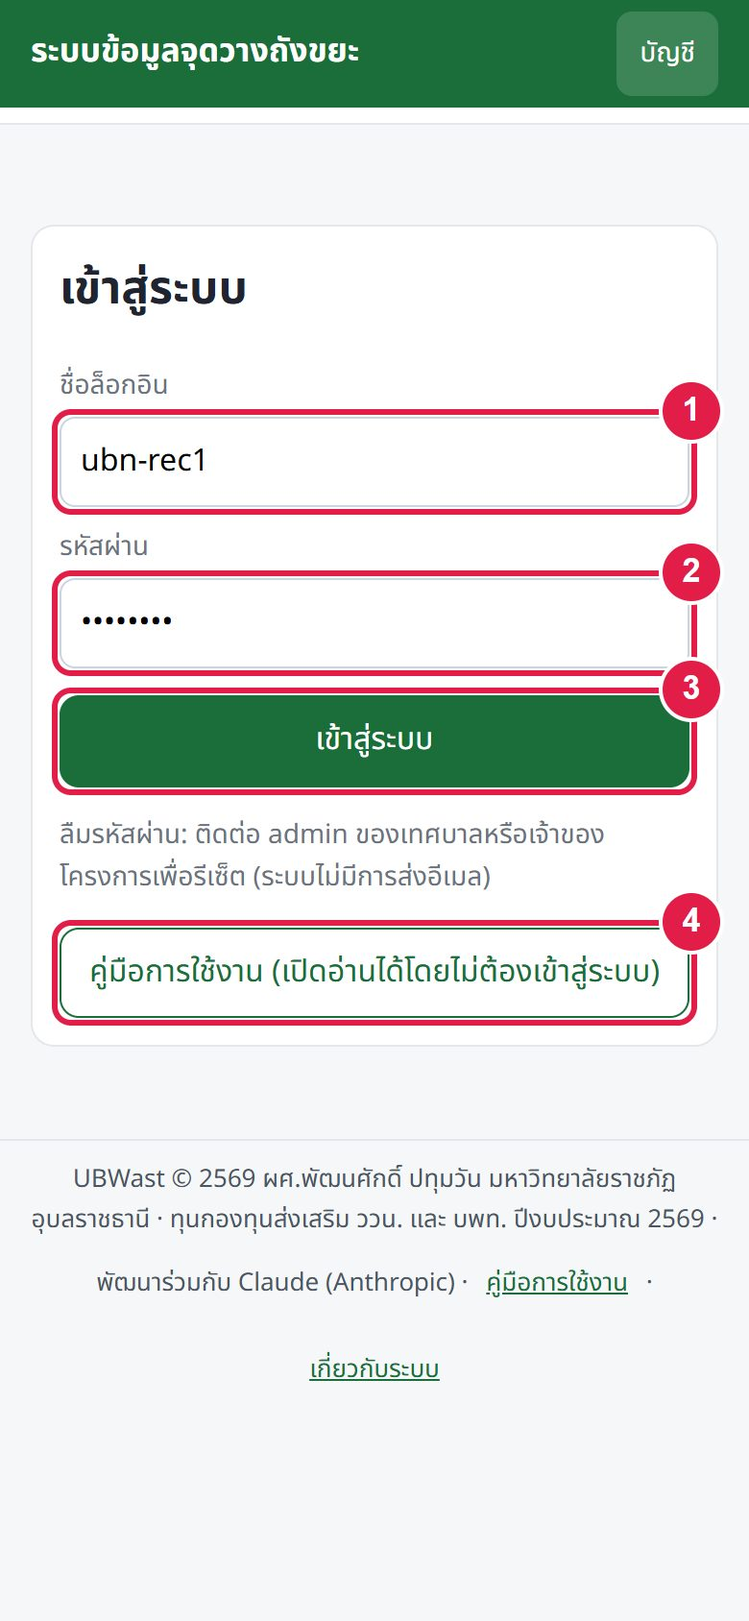
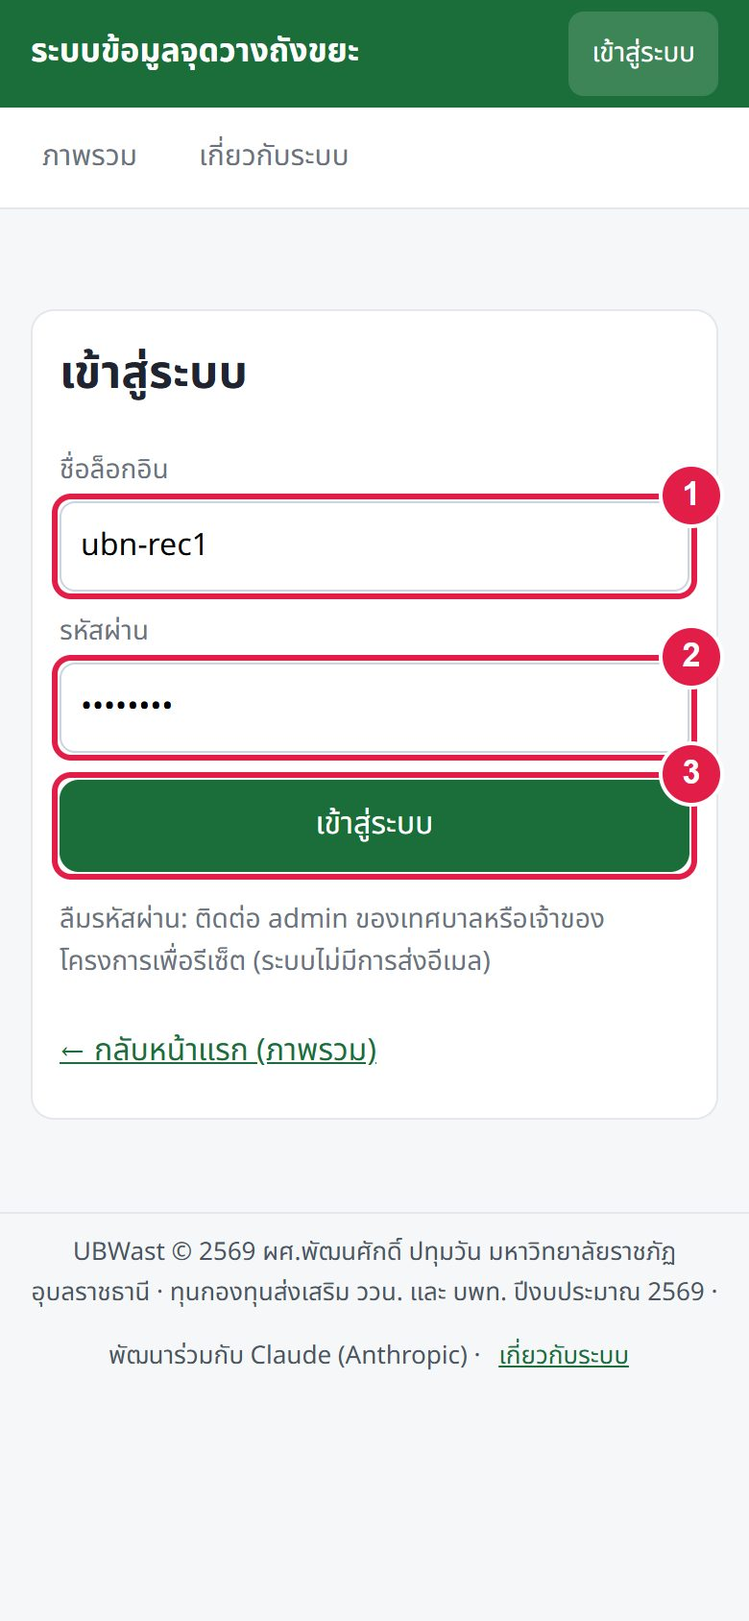
DEC-114: public home page (overview dashboard) without login
- Logged-out visitors see only: overview dashboard, about page, and a login button
- Overview data comes from public_dashboard() (sql/018): summary only, no photos,
  recorder names, vehicles, fuel or costs; per-municipality public switch
- Help and user guides require login (installer guide #guide/photo stays public
  because it is sent to municipal Google admins who have no account)
- Login moved to #login; session expiry returns to the login page

diff --git a/index.html b/index.html
@@ -162,7 +162,7 @@ const CONFIG = {
   <h1 id="title">ระบบข้อมูลจุดวางถังขยะ</h1>
   <span id="who" class="muted" style="color:#dbeafe;font-size:13px"></span>
   <button id="btnQueue" class="hidden" onclick="go('#queue')">รอส่ง <b id="queueCount">0</b></button>
-  <button onclick="go('#me')">บัญชี</button>
+  <button id="btnAcct" onclick="go(S.me ? '#me' : '#login')">เข้าสู่ระบบ</button>
 </header>
 <nav class="tabs" id="tabs"></nav>
 <main id="view"></main>
@@ -251,7 +251,7 @@ function fail(e, ctx) {
   toastErr(f.title, f.hint, f.raw && f.raw !== f.title ? f.raw : '');
   if (f.kind === 'session' && S.me && api.name === 'supabase') sessionLost();
 }
-async function sessionLost() { try { await api.logout(); } catch (_) {} S.me = null; S.cache = {}; S._loginNote = 'หมดเวลาการใช้งาน กรุณาเข้าสู่ระบบใหม่ · รายการที่ยังไม่ได้ส่งเก็บไว้ในเมนู "รอส่ง" ไม่หาย'; go('#'); render(); }
+async function sessionLost() { try { await api.logout(); } catch (_) {} S.me = null; S.cache = {}; S._loginNote = 'หมดเวลาการใช้งาน กรุณาเข้าสู่ระบบใหม่ · รายการที่ยังไม่ได้ส่งเก็บไว้ในเมนู "รอส่ง" ไม่หาย'; go('#login'); render(); }
 // ตรวจช่องบังคับ: ทำกรอบแดง เลื่อนไปที่ช่อง และบอกชื่อช่องที่ขาด · คืน false เพื่อให้เรียกแบบ return needField(...)
 function needField(sel, msg) {
   document.querySelectorAll('.invalid').forEach(x => x.classList.remove('invalid'));
@@ -298,6 +298,7 @@ const SupaBackend = () => {
     },
     async changePassword(pw) { unwrap(await sb.auth.updateUser({ password: pw })); },
     async list(name, o) { return unwrap(await applyOpts(sb.from(name).select(o?.select || '*'), o)); },
+    async rpc(fn, args) { return unwrap(await sb.rpc(fn, args || {})); },   // DEC-114 ฟังก์ชันฐานข้อมูล (public_dashboard เรียกได้โดยไม่ต้องล็อกอิน)
     async insert(table, row) { return unwrap(await sb.from(table).insert(row).select().single()); },
     async insertMany(table, rows) { if (!rows.length) return []; return unwrap(await sb.from(table).insert(rows).select()); },
     async update(table, id, patch, pk = 'id') { return unwrap(await sb.from(table).update(patch).eq(pk, id).select().single()); },
@@ -412,6 +413,16 @@ const DemoBackend = () => {
     async login(username, password) { const u = D.app_user.find(x => x.username === username.trim().toLowerCase()); if (!u || password !== 'demo') throw new Error('ชื่อล็อกอินหรือรหัสผ่านไม่ถูกต้อง (สาธิต: รหัสผ่านคือ demo)'); me = u; return { ...u }; },
     async logout() { me = null; },
     async me() { return me ? { ...me } : null; },
+    async rpc(fn) {   // เลียนแบบ public_dashboard() ของ sql/018: เฉพาะข้อมูลสรุป ไม่ต้องล็อกอิน
+      if (fn !== 'public_dashboard') throw new Error('สาธิต: ไม่รองรับ ' + fn);
+      const mu = D.municipality.filter(m => m.status === 'active' && m.public_dashboard !== false), ids = new Set(mu.map(m => m.id));
+      const places = views.v_place().filter(p => p.status === 'active' && ids.has(p.municipality_id)).map(p => ({ id: p.id, municipality_id: p.municipality_id, municipality_code: p.municipality_code, place_code: p.place_code, name: p.name, road_id: p.road_id, road_name: p.road_name, lat: p.lat, lng: p.lng, total_bins: p.total_bins, total_liters: p.total_liters, tier_label: p.tier_label, tier_color: p.tier_color }));
+      const pid = new Set(places.map(p => p.id));
+      return { munis: mu.map(m => ({ id: m.id, code: m.code, name: m.name, map_bounds: m.map_bounds || null })), places,
+        bins: views.v_bin().filter(b => b.status === 'active' && b.condition === 'ปกติ' && pid.has(b.place_id)).map(b => ({ place_id: b.place_id, municipality_id: b.municipality_id, bin_type_name: b.bin_type_name, amount: b.amount, liters: b.liters, condition: b.condition })),
+        roads: views.v_road_summary().filter(r => +r.places > 0 && ids.has(r.municipality_id)).map(r => ({ municipality_id: r.municipality_id, municipality_code: r.municipality_code, road_id: r.road_id, road_name: r.road_name, places: r.places, total_bins: r.total_bins, total_liters: r.total_liters })),
+        msum: views.v_municipality_summary().filter(x => ids.has(x.municipality_id)), tiers: D.capacity_tier.slice(), settings: D.app_setting.filter(a => ['system_name', 'kg_per_liter'].includes(a.key)) };
+    },
     async changePassword() { },
     async list(name, o) { const rows = views[name] ? views[name]() : D[name]; return filt(scope(name, rows), o); },
     async insert(table, row) {
@@ -498,7 +509,7 @@ async function loadMasters(force) {
   if (!S.scopeMuni) S.scopeMuni = S.me.municipality_id || (munis[0] && munis[0].id) || null;
 }
 const scopeEq = () => (S.scopeMuni ? { municipality_id: S.scopeMuni } : {});
-const muniOf = id => S.munis.find(m => m.id === id) || {};
+const muniOf = id => S.munis.find(m => m.id === id) || (S.pub && S.pub.munis.find(m => m.id === id)) || {};
 const isSuper = () => S.me && S.me.role === 'super_admin';
 const isAdmin = () => S.me && (S.me.role === 'admin' || isSuper());
 const setting = k => (S.cache.app_setting.find(s => s.key === k) || {}).value || '';
@@ -518,6 +529,7 @@ const TABS = () => [
   ['#help', 'ช่วยเหลือ']
 ];
 function renderTabs() {
+  if (!S.me) { const h = location.hash; $('#tabs').innerHTML = [['#', 'ภาพรวม', !h.startsWith('#about') && h !== '#login' && !h.startsWith('#guide')], ['#about', 'เกี่ยวกับระบบ', h.startsWith('#about')]].map(([href, l, a]) => `<a href="${href}" class="${a ? 'active' : ''}">${l}</a>`).join(''); return; }
   $('#tabs').innerHTML = S.me ? TABS().map(([h, l]) => `<a href="${h}" class="${location.hash.startsWith(h) ? 'active' : ''}">${l}</a>`).join('') : '';
 }
 window.addEventListener('hashchange', render);
@@ -527,9 +539,14 @@ async function render() {
   const view = $('#view');
   try {
     if (!S.me) { S.me = await api.me(); }
+    renderCredit(); const ab = $('#btnAcct'); if (ab) ab.textContent = S.me ? 'บัญชี' : 'เข้าสู่ระบบ';
     if (location.hash.startsWith('#about')) { renderTabs(); if (!S.me) $('#who').textContent = ''; return pageAbout(view); }   // DEC-103 เปิดได้โดยไม่ต้องล็อกอิน
-    if (location.hash === '#guide' || location.hash.startsWith('#guide/')) { renderTabs(); if (!S.me) $('#who').textContent = ''; return pageGuide(view); }   // คู่มือ เปิดได้โดยไม่ต้องล็อกอิน (DEC-095 · DEC-105)
-    if (!S.me) { renderTabs(); $('#who').textContent = ''; return pageLogin(view); }
+    if (location.hash === '#guide' || location.hash.startsWith('#guide/')) {   // DEC-114 คู่มือเปิดได้เมื่อเข้าสู่ระบบ · ยกเว้นคู่มือติดตั้งตัวรับรูป (#guide/photo) ที่ส่งลิงก์ให้ผู้ดูแลบัญชี Google ของเทศบาลซึ่งไม่มีบัญชีระบบ
+      if (!S.me && location.hash !== '#guide/photo') { S._loginNote = 'คู่มือการใช้งานสำหรับเจ้าหน้าที่ กรุณาเข้าสู่ระบบก่อน'; history.replaceState(null, '', '#login'); renderTabs(); $('#who').textContent = ''; return pageLogin(view); }
+      renderTabs(); if (!S.me) $('#who').textContent = ''; return pageGuide(view);
+    }
+    if (!S.me) { renderTabs(); $('#who').textContent = ''; return location.hash === '#login' ? pageLogin(view) : pagePublic(view); }   // DEC-114 หน้าแรกสาธารณะ
+    if (location.hash === '#login') history.replaceState(null, '', '#map');
     await loadMasters();
     $('#who').textContent = `${S.me.display_name} · ${roleLabel(S.me.role)}${S.me.municipality_id ? ' · ' + (muniOf(S.me.municipality_id).code || '') : ''}`;
     Queue.refreshBadge();
@@ -565,7 +582,7 @@ function pageLogin(view) {
     <label>รหัสผ่าน</label><input id="p" type="password" autocomplete="current-password">
     <div style="margin-top:14px"><button id="btnLogin" style="width:100%">เข้าสู่ระบบ</button></div>
     <p class="muted">ลืมรหัสผ่าน: ติดต่อ admin ของเทศบาลหรือเจ้าของโครงการเพื่อรีเซ็ต (ระบบไม่มีการส่งอีเมล)</p>
-    <a id="guideLink" class="btn secondary" style="display:block;text-align:center;text-decoration:none" href="#guide">คู่มือการใช้งาน (เปิดอ่านได้โดยไม่ต้องเข้าสู่ระบบ)</a>
+    <a href="#" style="display:inline-block;padding:8px 0">← กลับหน้าแรก (ภาพรวม)</a>
   </div>`;
   const doLogin = async () => {
     const b = $('#btnLogin'); b.disabled = true;
@@ -1029,9 +1046,26 @@ const cardTitle = (text, key) => `<div class="cardhead"><h4>${text}</h4>${key ? 
 function showInfo(key) { const i = (S._info || {})[key]; if (!i) return toast('ยังไม่มีคำอธิบาย', true); openModal(`<h3 style="margin-top:0">${esc(i.title)}</h3><h4 style="margin-bottom:4px">กราฟนี้แสดงอะไร</h4><div>${esc(i.what)}</div><h4 style="margin-bottom:4px">อ่านอย่างไร</h4><div>${esc(i.how)}</div><h4 style="margin-bottom:4px">แปลผลจากข้อมูลตอนนี้ (คำนวณอัตโนมัติ)</h4><div class="banner info">${esc(i.interp)}</div><button onclick="closeModal()">ปิด</button>`); }
 const tiersSorted = () => S.cache.capacity_tier.slice().sort((a, b) => a.sort_order - b.sort_order);
 const tierOf = p => tiersSorted().find(t => t.label === p.tier_label) || tiersSorted()[0];
-const scopeName = () => (S.scopeMuni ? `${muniOf(S.scopeMuni).code || ''} · ${muniOf(S.scopeMuni).name || ''}` : 'ทุกเทศบาล');
+const scopeName = () => !S.me ? (S.pubMuni ? (muniOf(S.pubMuni).name || '') : 'ทุกเทศบาลที่เข้าร่วม') : (S.scopeMuni ? `${muniOf(S.scopeMuni).code || ''} · ${muniOf(S.scopeMuni).name || ''}` : 'ทุกเทศบาล');
 
+// DEC-114 หน้าแรกสาธารณะ: ภาพรวมจากฟังก์ชัน public_dashboard() (sql/018) ซึ่งคืนเฉพาะข้อมูลสรุป ไม่มีรูป ชื่อผู้บันทึก รถ น้ำมัน ค่าใช้จ่าย
+async function loadPublic(force) {
+  if (S.pub && !force && Date.now() - S.pub._at < 300000) return S.pub;   // จำไว้ 5 นาที
+  const d = await api.rpc('public_dashboard'); d._at = Date.now(); S.pub = d;
+  S.cache.capacity_tier = d.tiers || []; S.cache.app_setting = d.settings || [];
+  const sn = (d.settings || []).find(x => x.key === 'system_name'); if (sn && sn.value) { $('#title').textContent = sn.value; document.title = sn.value; }
+  if ((d.munis || []).length === 1) S.pubMuni = d.munis[0].id;
+  return d;
+}
+async function pagePublic(view) {
+  try { await loadPublic(); }
+  catch (e) { const f = friendlyError(e, 'โหลดข้อมูลภาพรวมไม่สำเร็จ'); console.error(e); return view.innerHTML = `<div class="card"><b>${esc(f.title)}</b><div class="muted" style="margin-top:4px">${esc(f.hint || 'ลองใหม่อีกครั้งภายหลัง')}</div><div class="row" style="margin-top:10px"><button onclick="S.pub=null;render()">ลองใหม่</button><a class="btn secondary" style="text-decoration:none" href="#login">เข้าสู่ระบบ (เจ้าหน้าที่)</a></div></div>`; }
+  return pageDashOverview(view);
+}
+const pubSelector = () => { const ms = (S.pub && S.pub.munis) || [];
+  return `<div class="card row" style="justify-content:space-between"><div class="row" style="gap:8px"><label style="margin:0" for="pubMuni">เทศบาล</label><select id="pubMuni" style="max-width:340px" onchange="S.pubMuni=this.value||null;render()">${ms.length > 1 ? '<option value="">ทุกเทศบาลที่เข้าร่วม</option>' : ''}${ms.map(m => `<option value="${m.id}" ${m.id === S.pubMuni ? 'selected' : ''}>${esc(m.name)}</option>`).join('')}</select></div><span class="muted">ข้อมูลสาธารณะ ไม่ต้องเข้าสู่ระบบ · เจ้าหน้าที่ <a href="#login">เข้าสู่ระบบ</a></span></div>`; };
 async function loadDashData() {
+  if (!S.me) { const d = S.pub || { places: [], bins: [], roads: [], msum: [] }, f = r => !S.pubMuni || r.municipality_id === S.pubMuni; const places = d.places.filter(f), ids = new Set(places.map(p => p.id)); return { places, bins: d.bins.filter(b => ids.has(b.place_id)), roads: d.roads.filter(f), msum: d.msum.filter(f) }; }
   const [places, bins, roads, msum] = await Promise.all([
     api.list('v_place', { eq: { status: 'active', ...scopeEq() } }),
     api.list('v_bin', { eq: { status: 'active', ...scopeEq() } }),
@@ -1106,7 +1140,7 @@ async function pageDashOverview(view) {
     roads: { title: '10 ถนนความจุสูงสุด', what: 'ความจุรวม (ลิตร) ของทุกจุดบนถนน เรียงจากมากไปน้อย · ตัวเลขท้ายแท่ง = ลิตร และจำนวนจุด', how: 'ถนนที่ลิตรมากแต่จุดน้อย = ถังใหญ่ (คอนเทนเนอร์) · ถนนที่จุดมากแต่ลิตรน้อย = ถังเล็กจำนวนมาก · จำนวนจุดสะท้อนความครอบคลุมการสำรวจ ไม่ใช่สภาพจริงทั้งหมด · กดชื่อถนนเพื่อเจาะดูในหน้าวิเคราะห์', interp: roadsWith.length ? `${roadsWith.length > 10 ? `10 ถนนแรกถือ ${fmt1(pct(top10L, totL))}% ของความจุทั้งหมด จาก ${fmt(roadsWith.length)} ถนนที่มีจุด` : `มีถนนที่มีจุด ${fmt(roadsWith.length)} สาย (แสดงครบทุกสาย)`} · อันดับ 1 "${roadsWith[0].road_name}" ${fmt(roadsWith[0].total_liters)} ล. จาก ${fmt(roadsWith[0].places)} จุด (เฉลี่ย ${fmt(Math.round(roadsWith[0].total_liters / roadsWith[0].places))} ล./จุด)` : 'ยังไม่มีข้อมูล' },
     types: { title: 'ความจุตามประเภทถัง', what: 'ความจุรวม (ลิตร) แยกตามประเภทถัง = จำนวนใบ × ลิตรต่อใบ · แท่งม่วง = ประเภทที่ถือความจุมากที่สุด', how: 'เทียบ "ล." กับ "ใบ" ท้ายแท่ง: ประเภทที่ใบน้อยแต่ลิตรมากคือถังใหญ่ · ป้ายมุมขวาบนบอกจำนวนจุดที่ยังไม่มีข้อมูลถัง (ไม่ทราบ ≠ ศูนย์)', interp: topType ? `"${topType.name}" ${fmt(topType.bins)} ใบ (${fmt1(pct(topType.bins, totB))}% ของใบ) ถือความจุ ${fmt1(pct(topType.liters, totL))}%${types[1] ? ` · รองลงมา "${types[1].name}" ${fmt1(pct(types[1].liters, totL))}%` : ''}${noBins ? ` · มี ${fmt(noBins)} จุดที่ยังไม่มีข้อมูลถัง ควรสำรวจเพิ่ม` : ''}` : 'ยังไม่มีข้อมูล' }
   };
-  view.innerHTML = `${scopeSelector()}${dashTabs('')}
+  view.innerHTML = `${S.me ? scopeSelector() + dashTabs('') : pubSelector()}
     <div class="card" style="padding:12px 14px"><div style="font-size:20px;font-weight:700;color:${DASH.navy}">${esc(setting('system_name') || 'ระบบข้อมูลจุดวางถังขยะ')} — ภาพรวม</div>
       <div class="muted">${esc(scopeName())} · ข้อมูลล่าสุด ${thDate(updated)} · ${places.length ? '' : 'ยังไม่มีข้อมูลจุดในขอบเขตนี้'}</div></div>
     <div class="kpis">${card(fmt(places.length), 'จุด')}${card(fmt(totB), 'ถัง (ใบ)')}${card(fmt(totL), 'ลิตร', !isNaN(kg) ? `≈ ${fmt(Math.round(totL * kg))} กก.` : '')}${card(fmt(new Set(places.map(p => p.road_id)).size), 'ถนนที่มีจุด')}${card(fmt(places.length ? Math.round(totL / places.length) : 0), 'เฉลี่ยลิตร/จุด')}</div>
@@ -1116,17 +1150,17 @@ async function pageDashOverview(view) {
     <div class="card">${cardTitle('แผนที่: วงใหญ่ = ความจุมาก · สี = ระดับความจุ', 'map')}<div class="legend" style="margin-bottom:6px">${tiers.map(t => `<span><i class="dot" style="background:${t.color}"></i>${esc(t.label)}</span>`).join('')}</div><div id="map" style="height:420px"></div></div>
     <div class="card">${cardTitle('จำนวนจุด เทียบ ความจุ แบ่งตามระดับ', 'stack')}<div class="muted">แถวบน = % ของจำนวนจุด · แถวล่าง = % ของความจุ (ลิตร) · ชิ้นสีเดียวกันคือระดับเดียวกัน</div><div class="chartbox" style="height:170px"><canvas id="cStack"></canvas></div></div>
     <div class="grid2">
-      <div class="card"><div class="row" style="justify-content:space-between"><h4 style="margin:0">10 ถนนความจุสูงสุด ${infoBtn('roads')}</h4><span class="muted">กดชื่อถนนเพื่อเจาะดู</span></div><div style="margin-top:8px">${roadsWith.slice(0, 10).map(r => hbar(esc(r.road_name) + (S.scopeMuni ? '' : ` <span class="muted">(${esc(r.municipality_code)})</span>`), +r.total_liters, +roadsWith[0].total_liters, DASH.navy, `${fmt(r.total_liters)} ล. · <span class="muted">${fmt(r.places)} จุด</span>`, `#dashboard/research?road=${r.road_id}`)).join('') || '<div class="muted">ยังไม่มีข้อมูล</div>'}</div>
+      <div class="card"><div class="row" style="justify-content:space-between"><h4 style="margin:0">10 ถนนความจุสูงสุด ${infoBtn('roads')}</h4>${S.me ? '<span class="muted">กดชื่อถนนเพื่อเจาะดู</span>' : ''}</div><div style="margin-top:8px">${roadsWith.slice(0, 10).map(r => hbar(esc(r.road_name) + ((S.me ? S.scopeMuni : S.pubMuni) ? '' : ` <span class="muted">(${esc(r.municipality_code)})</span>`), +r.total_liters, +roadsWith[0].total_liters, DASH.navy, `${fmt(r.total_liters)} ล. · <span class="muted">${fmt(r.places)} จุด</span>`, S.me ? `#dashboard/research?road=${r.road_id}` : '')).join('') || '<div class="muted">ยังไม่มีข้อมูล</div>'}</div>
         ${roadsWith.length > 10 ? `<div class="muted" style="margin-top:6px">อีก ${roadsWith.length - 10} ถนนรวม ${fmt(sum(roadsWith.slice(10), 'total_liters'))} ล. (ดูทั้งหมดในหน้าวิเคราะห์)</div>` : ''}</div>
       <div class="card"><div class="row" style="justify-content:space-between"><h4 style="margin:0">ความจุตามประเภทถัง ${infoBtn('types')}</h4><span class="pill" title="จุดที่บันทึกแล้วแต่ยังไม่มีแถวถัง (ไม่ทราบ ≠ 0)">จุดที่ยังไม่มีข้อมูลถัง: <b>${fmt(noBins)}</b></span></div><div style="margin-top:8px">${types.map((t, i) => hbar(esc(t.name), t.liters, types[0].liters, i === 0 ? DASH.purple : DASH.gray2, `${fmt(t.liters)} ล. · <span class="muted">${fmt(t.bins)} ใบ</span>`)).join('') || '<div class="muted">ยังไม่มีข้อมูล</div>'}</div></div></div>
-    ${!S.scopeMuni && isSuper() && msum.length > 1 ? `<div class="card"><h4 style="margin-top:0">เปรียบเทียบรายเทศบาล</h4><div style="overflow:auto"><table><thead><tr><th>เทศบาล</th><th style="text-align:right">จุด</th><th style="text-align:right">ใบ</th><th style="text-align:right">ลิตร</th><th style="text-align:right">ถนน</th><th style="text-align:right">จุดไม่มีถัง</th><th>ล่าสุด</th></tr></thead><tbody>${msum.map(m => `<tr><td><a href="#dashboard" onclick="S.scopeMuni='${m.municipality_id}'">${esc(m.municipality_code)} ${esc(m.municipality_name)}</a></td><td style="text-align:right">${fmt(m.places)}</td><td style="text-align:right">${fmt(m.total_bins)}</td><td style="text-align:right">${fmt(m.total_liters)}</td><td style="text-align:right">${fmt(m.roads_with_places)}</td><td style="text-align:right">${fmt(m.places_without_bins ?? '-')}</td><td class="muted">${thDate(m.data_updated_at)}</td></tr>`).join('')}</tbody></table></div></div>` : ''}`;
+    ${(S.me ? !S.scopeMuni && isSuper() : !S.pubMuni) && msum.length > 1 ? `<div class="card"><h4 style="margin-top:0">เปรียบเทียบรายเทศบาล</h4><div style="overflow:auto"><table><thead><tr><th>เทศบาล</th><th style="text-align:right">จุด</th><th style="text-align:right">ใบ</th><th style="text-align:right">ลิตร</th><th style="text-align:right">ถนน</th><th style="text-align:right">จุดไม่มีถัง</th><th>ล่าสุด</th></tr></thead><tbody>${msum.map(m => `<tr><td><a href="#dashboard" onclick="${S.me ? 'S.scopeMuni' : 'S.pubMuni'}='${m.municipality_id}';${S.me ? '' : 'render();return false;'}">${esc(m.municipality_code)} ${esc(m.municipality_name)}</a></td><td style="text-align:right">${fmt(m.places)}</td><td style="text-align:right">${fmt(m.total_bins)}</td><td style="text-align:right">${fmt(m.total_liters)}</td><td style="text-align:right">${fmt(m.roads_with_places)}</td><td style="text-align:right">${fmt(m.places_without_bins ?? '-')}</td><td class="muted">${thDate(m.data_updated_at)}</td></tr>`).join('')}</tbody></table></div></div>` : ''}`;
   // แผนที่: วงตามความจุ (รากที่สอง เพื่อให้พื้นที่วงแปรตามลิตร) + สลับแผนที่/ดาวเทียม
   const map = mkMap('map'); S.map = map;
   await addBaseLayer(map);
   const g = L.featureGroup().addTo(map); const maxL = Math.max(1, ...places.map(p => +p.total_liters));
   for (const p of places.filter(p => p.lat != null && p.lng != null)) L.circleMarker([p.lat, p.lng], { radius: 5 + 17 * Math.sqrt((+p.total_liters) / maxL), color: '#fff', weight: 1, fillColor: p.tier_color || tiers[0].color, fillOpacity: .85 })
-    .bindPopup(`<b>${esc(p.place_code)}</b><br>${esc(p.name)}<br>${esc(p.road_name)}<br>${fmt(p.total_bins)} ใบ · <b>${fmt(p.total_liters)} ลิตร</b> · ${esc(p.tier_label || '')}<br><a href="#place/${p.id}">รายละเอียด/รูป</a>`).addTo(g);
-  fitMuni(map, g);
+    .bindPopup(`<b>${esc(p.place_code)}</b><br>${esc(p.name)}<br>${esc(p.road_name)}<br>${fmt(p.total_bins)} ใบ · <b>${fmt(p.total_liters)} ลิตร</b> · ${esc(p.tier_label || '')}${S.me ? `<br><a href="#place/${p.id}">รายละเอียด/รูป</a>` : ''}`).addTo(g);
+  fitMuni(map, g, S.me ? null : S.pubMuni);
   // แท่ง 100% ซ้อน 2 แถว
   mkChart($('#cStack'), { type: 'bar', data: { labels: ['จำนวนจุด', 'ความจุ'], datasets: byTier.map(x => ({ label: x.t.label, data: [pct(x.n, places.length), pct(x.liters, totL)], rawVals: [x.n, x.liters], backgroundColor: x.t.color, borderWidth: 0 })) },
     options: { indexAxis: 'y', maintainAspectRatio: false, scales: { x: { stacked: true, min: 0, max: 100, ticks: { callback: v => v + '%' } }, y: { stacked: true } }, plugins: { legend: { display: false }, tooltip: { callbacks: { label: c => `${c.dataset.label}: ${fmt1(c.raw)}% (${fmt(c.dataset.rawVals[c.dataIndex])} ${c.dataIndex ? 'ลิตร' : 'จุด'})` } } } } });
@@ -2175,10 +2209,10 @@ function pageAbout(view) {
     <h3>ติดต่อ</h3>
     <p>ผศ.พัฒนศักดิ์ ปทุมวัน · <a href="mailto:pattanasak.p@ubru.ac.th">pattanasak.p@ubru.ac.th</a></p>
     <p class="muted">ฉบับระบบ: ${esc(CREDIT.updated)}</p>
-    <div class="row" style="margin-top:12px"><a class="btn secondary" style="text-decoration:none" href="${S.me ? '#help' : '#'}" onclick="${S.me ? '' : 'location.hash=\'\';render();return false;'}">${S.me ? 'กลับไปหน้าช่วยเหลือ' : 'กลับไปหน้าเข้าสู่ระบบ'}</a></div>
+    <div class="row" style="margin-top:12px"><a class="btn secondary" style="text-decoration:none" href="${S.me ? '#help' : '#'}" onclick="${S.me ? '' : 'location.hash=\'\';render();return false;'}">${S.me ? 'กลับไปหน้าช่วยเหลือ' : 'กลับหน้าแรก'}</a></div>
   </div>`;
 }
-function renderCredit() { const f = $('#credit'); if (f) f.innerHTML = `${esc(CREDIT.short)} · <a href="#guide">คู่มือการใช้งาน</a> · <a href="#about">เกี่ยวกับระบบ</a>`; }
+function renderCredit() { const f = $('#credit'); if (f) f.innerHTML = `${esc(CREDIT.short)}${S.me ? ' · <a href="#guide">คู่มือการใช้งาน</a>' : ''} · <a href="#about">เกี่ยวกับระบบ</a>`; }
 // เอกสารพิมพ์ทุกฉบับ: เครดิตท้ายทุกหน้ากระดาษ (ตำแหน่ง fixed ตอนพิมพ์ + ตารางห่อ tfoot เว้นที่ด้านล่างทุกหน้าไม่ให้ทับเนื้อหา)
 const PRINT_CREDIT_CSS = '.pgwrap{width:100%;border-collapse:collapse;border:0;margin:0}.pgwrap>thead>tr>td,.pgwrap>tbody>tr>td,.pgwrap>tfoot>tr>td{border:0;padding:0}.pgcredit{margin-top:14px;text-align:center;font-size:9pt;color:#555;border-top:1px solid #ccc;padding-top:3px}@media print{.pgcredit{position:fixed;bottom:0;left:0;right:0;margin:0;background:#fff}}';
 function withCredit(doc) {
@@ -2199,13 +2233,12 @@ const GUIDE_REC = [
       'เปิดเบราว์เซอร์ในมือถือ (Android ใช้ Chrome · iPhone ใช้ Safari) พิมพ์ที่อยู่ <b class="mono">' + esc(CREDIT.url.replace('https://', '')) + '</b>',
       'ทำไอคอนไว้ที่หน้าจอมือถือ จะได้ไม่ต้องพิมพ์ที่อยู่ทุกครั้ง: <br>• <b>Android (Chrome)</b> กดปุ่ม <b>⋮</b> มุมขวาบน → <b>"เพิ่มลงในหน้าจอหลัก"</b> (Add to Home screen) → <b>"เพิ่ม"</b><br>• <b>iPhone (Safari)</b> กดปุ่ม <b>แชร์</b> (สี่เหลี่ยมมีลูกศรชี้ขึ้น) ด้านล่าง → <b>"เพิ่มไปยังหน้าจอโฮม"</b> (Add to Home Screen) → <b>"เพิ่ม"</b><br><span class="muted">ชื่อเมนูอาจต่างเล็กน้อยตามรุ่นของมือถือ</span>',
       'ครั้งแรกที่กดปุ่ม <b>"ใช้ GPS"</b> มือถือจะถามว่าอนุญาตให้เว็บรู้ตำแหน่งไหม ให้กด <b>"อนุญาต"</b> (Allow) · ครั้งแรกที่กด <b>"ถ่ายรูป"</b> จะถามเรื่องกล้อง ให้กด <b>"อนุญาต"</b> เช่นกัน'],
-    done: 'เปิดที่อยู่แล้วเห็นหน้า <b>"เข้าสู่ระบบ"</b> ตามภาพในหัวข้อถัดไป' }] },
+    done: 'เปิดที่อยู่แล้วเห็นหน้า <b>ภาพรวม</b> (ข้อมูลสาธารณะ) กดปุ่ม <b>"เข้าสู่ระบบ"</b> มุมขวาบน จะเห็นหน้าตามภาพในหัวข้อถัดไป' }] },
   { id: 'g2', title: 'เข้าสู่ระบบ และเปลี่ยนรหัสผ่าน', intro: 'เข้าครั้งแรกด้วยรหัสผ่านที่ admin ให้ แล้วเปลี่ยนเป็นรหัสของท่านเอง เพื่อไม่ให้คนอื่นใช้ชื่อของท่านบันทึกข้อมูล',
     parts: [{ img: 'r01', steps: [
       `${GN(1)} พิมพ์ <b>ชื่อล็อกอิน</b> ตามที่ admin ให้ (ตัวอักษรเล็กทั้งหมด เช่น ubn-rec1)`,
       `${GN(2)} พิมพ์ <b>รหัสผ่าน</b>`,
-      `${GN(3)} กดปุ่ม <b>"เข้าสู่ระบบ"</b>`,
-      `${GN(4)} ปุ่ม <b>"คู่มือการใช้งาน"</b> เปิดคู่มือนี้ได้ทุกเมื่อ แม้ยังไม่เข้าสู่ระบบ`],
+      `${GN(3)} กดปุ่ม <b>"เข้าสู่ระบบ"</b>`],
       done: 'เห็นแผนที่ และชื่อของท่านที่แถบสีเขียวด้านบน' },
     { img: 'r04', lead: 'เปลี่ยนรหัสผ่าน: กดปุ่ม <b>"บัญชี"</b> มุมขวาบน', steps: [
       `${GN(1)} พิมพ์ <b>รหัสผ่านใหม่</b> อย่างน้อย 8 ตัว`,
@@ -2378,7 +2411,7 @@ const GUIDE_ADM = [
       `${GN(2)} <b>"รีเซ็ตรหัส"</b> เมื่อผู้ปฏิบัติงานลืมรหัสผ่าน · รหัสใหม่แสดงครั้งเดียว ให้พิมพ์หรือจดส่งต่อทันที`],
       done: 'ผู้ปฏิบัติงานที่ลาออก กด "แก้" แล้วเปลี่ยนสถานะเป็นปิดใช้งาน · ส่งรหัสผ่านให้เจ้าตัวโดยตรง อย่าส่งในกลุ่มไลน์' },
     { img: 'a15', lead: 'จัดการเทศบาล → แท็บ <b>"ตั้งค่าเทศบาล"</b>', steps: [
-      `${GN(1)} <b>ที่เก็บรูป</b> ค่าเริ่มต้นใช้ที่เก็บกลางของโครงการ ไม่ต้องตั้งอะไร · ถ้าต้องการเก็บใน Google Drive ของเทศบาลเอง เลือกแบบที่ 2 แล้วกด "ดูวิธีทำทีละขั้น (มีภาพ)" ให้ผู้ดูแลบัญชี Google ของเทศบาลทำ`,
+      `${GN(1)} <b>ที่เก็บรูป</b> ค่าเริ่มต้นใช้ที่เก็บกลางของโครงการ ไม่ต้องตั้งอะไร · ถ้าต้องการเก็บใน Google Drive ของเทศบาลเอง เลือกแบบที่ 2 แล้วกด "ดูวิธีทำทีละขั้น (มีภาพ)" ให้ผู้ดูแลบัญชี Google ของเทศบาลทำ (คู่มือนี้เปิดได้โดยไม่ต้องเข้าสู่ระบบ ส่งลิงก์ให้ได้)`,
       `${GN(2)} <b>"บันทึกการตั้งค่า"</b>`] }] },
   { id: 'a10', title: 'แดชบอร์ด', intro: 'ตัวเลขทุกตัวคำนวณสดจากข้อมูล ณ เวลาที่เปิด ไม่ต้องสั่งปรับปรุง',
     parts: [{ img: 'a16', lead: 'เมนู <b>"แดชบอร์ด"</b>', steps: [
@@ -2401,7 +2434,7 @@ const GUIDE_ADM = [
       `${GN(2)} <b>"ยกเลิก"</b> ท้ายแถวถัง ใช้กับแถวถังที่บันทึกผิด · ถังชำรุดหรือหายให้ "แก้" แล้วเปลี่ยนสภาพแทน (ยังเป็นทะเบียน แต่ไม่นับความจุ)`],
       done: 'ติดปัญหา: อ่านกล่องสีแดงก่อน (บอกเสมอว่าเกิดอะไรและต้องทำอย่างไร) · ทุกหน้ามีปุ่ม (?) · เมนู "ช่วยเหลือ" มีตารางข้อความทั้งหมด · ถ้ายังแก้ไม่ได้ ติดต่อเจ้าของโครงการ ผศ.พัฒนศักดิ์ ปทุมวัน pattanasak.p@ubru.ac.th พร้อมภาพหน้าจอ (อย่าให้เห็นรหัสผ่าน)' }] }
 ];
-const GIMG = (f, dir = 'rec') => `<a href="help/${dir}/${f}.jpg?v=3" target="_blank" rel="noopener" title="แตะเพื่อดูภาพขนาดเต็ม"><img src="help/${dir}/${f}.jpg?v=3" alt="ภาพหน้าจอประกอบ" loading="lazy" ${dir === 'rec' ? 'width="390" height="844"' : ''} class="gimg"></a>`;
+const GIMG = (f, dir = 'rec') => `<a href="help/${dir}/${f}.jpg?v=4" target="_blank" rel="noopener" title="แตะเพื่อดูภาพขนาดเต็ม"><img src="help/${dir}/${f}.jpg?v=4" alt="ภาพหน้าจอประกอบ" loading="lazy" ${dir === 'rec' ? 'width="390" height="844"' : ''} class="gimg"></a>`;
 const GUIDE_CSS = `<style>.gn{display:inline-block;min-width:26px;height:26px;line-height:26px;border-radius:50%;background:#E11D48;color:#fff;font-weight:700;text-align:center;font-size:15px;margin-right:4px}
   .gpart{display:grid;grid-template-columns:minmax(0,340px) 1fr;gap:18px;align-items:start;margin-top:14px}.gpart.wide{grid-template-columns:1fr;gap:8px}.gpart.wide .gimg{max-width:860px}.gpart ol{margin:6px 0;padding-left:0;list-style:none}.gpart li{margin:8px 0;line-height:1.7}
   .gimg{width:100%;height:auto;border:1px solid var(--line);border-radius:12px;display:block}.gdone{background:#ecfdf5;border:1px solid #a7f3d0;border-radius:8px;padding:8px 10px;margin-top:8px;line-height:1.7}
@@ -2418,7 +2451,7 @@ function pageGuide(view) {
     ${card('#guide/recorder', 'ผู้ปฏิบัติงาน (ผู้บันทึกข้อมูลภาคสนาม)', 'เจ้าหน้าที่ที่ลงพื้นที่ บันทึกจุดวางถัง ถัง และรูป ด้วยมือถือ', 'เข้าสู่ระบบ · รู้จักหน้าจอ · เพิ่มจุดทีละช่อง · แก้ไขจุด · ทำงานตอนไม่มีสัญญาณ · ดูเส้นทางรถ · เมื่อเห็นข้อความสีแดง')}
     ${card('#guide/admin', 'ผู้ดูแลระบบของเทศบาล (admin)', 'เจ้าหน้าที่ที่ดูแลถนน รถ เส้นทาง น้ำมันรถ บัญชีผู้ใช้ และพิมพ์รายงาน', 'ลำดับงานครั้งแรก · ถนนและซอย · รถและเชื้อเพลิง · เส้นทาง 4 ขั้น (ขาไป/ขากลับ/จุดแวะ) · น้ำมันรายเดือน · บัญชีผู้ใช้ · แดชบอร์ด · รายงาน · ดูแลข้อมูลจุด')}
     ${card('#guide/photo', 'ผู้ดูแลบัญชี Google ของเทศบาล', 'ทำครั้งเดียว เมื่อเทศบาลต้องการเก็บรูปไว้ใน Google Drive ของเทศบาลเอง', 'ติดตั้ง "ตัวรับรูป" ใน Apps Script ประมาณ 10 นาที')}
-    <div class="row noprint"><a class="btn secondary" style="text-decoration:none" href="${S.me ? '#help' : '#'}">${S.me ? 'กลับไปหน้าช่วยเหลือ' : 'กลับไปหน้าเข้าสู่ระบบ'}</a></div></div>`;
+    <div class="row noprint"><a class="btn secondary" style="text-decoration:none" href="${S.me ? '#help' : '#'}">${S.me ? 'กลับไปหน้าช่วยเหลือ' : 'กลับหน้าแรก'}</a></div></div>`;
 }
 function pageGuideRecorder(view) { return pageGuideDoc(view, { data: GUIDE_REC, dir: 'rec', title: 'คู่มือผู้ปฏิบัติงาน (ผู้บันทึกข้อมูลภาคสนาม)', lead: 'คู่มือนี้พาใช้ระบบตั้งแต่เข้าสู่ระบบครั้งแรก จนบันทึกจุดวางถังได้เอง อ่านจบประมาณ 15 นาที' }); }
 function pageGuideAdmin(view) { return pageGuideDoc(view, { data: GUIDE_ADM, dir: 'adm', wide: true, title: 'คู่มือผู้ดูแลระบบของเทศบาล (admin)', lead: 'คู่มือนี้พาตั้งค่าเทศบาลครั้งแรกจนพร้อมใช้งาน และงานประจำเดือนของ admin อ่านจบประมาณ 30 นาที · ภาพเป็นจอคอมพิวเตอร์ (ใช้บนมือถือได้ แต่การจัดเส้นทางทำบนคอมพิวเตอร์สะดวกกว่า)' }); }
@@ -2593,7 +2626,7 @@ function shotMark(list) {
   }
 }
 const SHOTS = {
-  login: { run: async () => { $('#u').value = 'ubn-rec1'; $('#p').value = '12345678'; return [['#u', 1], ['#p', 2], ['#btnLogin', 3], ['#guideLink', 4]]; } },
+  login: { run: async () => { $('#u').value = 'ubn-rec1'; $('#p').value = '12345678'; return [['#u', 1], ['#p', 2], ['#btnLogin', 3]]; } },
   map: { wait: 3500, run: async () => [['#tabs', 1], ['.legend.card', 2], ['.leaflet-control-layers', 3], ['.fab', 4], ['header button:last-of-type', 5]] },
   mappop: { wait: 3500, run: async () => { const p = document.querySelectorAll('path.leaflet-interactive')[2]; p && p.dispatchEvent(new MouseEvent('click', { bubbles: true })); await shotWait(600); return [[p, 1, { pad: 6 }], ['.leaflet-popup-content a', 2]]; } },
   me: { run: async () => [['#pw1', 1], ['#pw2', 2], ['button[onclick="changePw()"]', 3], ['button[onclick="logout()"]', 4]] },
